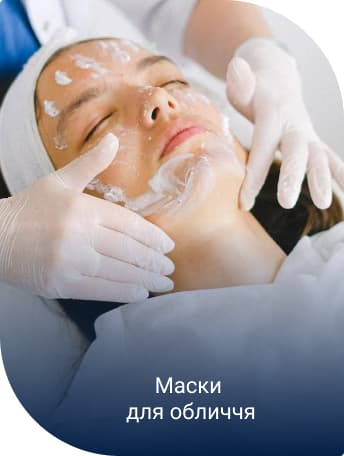
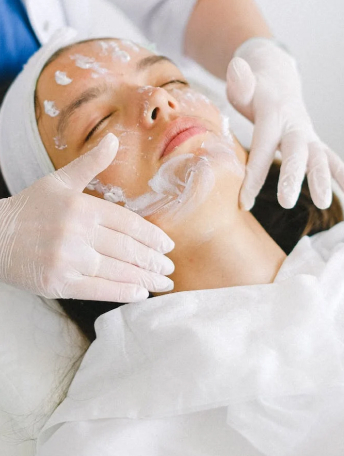
new

diff --git a/index.html b/index.html
@@ -97,27 +97,69 @@
       </section>
       <section class="people-choise-section">
         <div class="container">
+          <svg
+            class="people-choise-section__background"
+            xmlns="http://www.w3.org/2000/svg"
+            width="1440"
+            height="1507"
+            viewBox="0 0 1440 1507"
+            fill="none"
+          >
+            <path
+              fill-rule="evenodd"
+              clip-rule="evenodd"
+              d="M1015.22 1337.67C843.995 1420.41 681.707 1522.18 492.376 1504.43C294.908 1485.92 120.319 1385.32 -15.7281 1241.03C-170.733 1076.62 -313.597 883.153 -306.334 657.304C-298.462 412.497 -193.856 145.53 23.1542 31.9091C227.164 -74.9055 448.972 123.559 678.526 141.655C938.036 162.113 1224.83 -17.697 1429.76 142.796C1655.09 319.273 1777.41 658.366 1683.59 928.798C1594.61 1185.29 1259.68 1219.54 1015.22 1337.67Z"
+              fill="url(#paint0_linear_64_137)"
+              fill-opacity="0.2"
+            />
+            <defs>
+              <linearGradient
+                id="paint0_linear_64_137"
+                x1="851"
+                y1="-23.0002"
+                x2="851"
+                y2="1197.5"
+                gradientUnits="userSpaceOnUse"
+              >
+                <stop offset="0.334676" stop-color="#2B7FFF" />
+                <stop offset="0.634564" stop-color="#2B7FFF" stop-opacity="0" />
+                <stop offset="0.894715" stop-color="#2B7FFF" stop-opacity="0" />
+              </linearGradient>
+            </defs>
+          </svg>
+
           <h2 class="people-choise-section__title section-title">
             Чому люди
             <span class="people-choise-section__title-accent accent"
               >обирають нас</span
             >
           </h2>
-          <ul>
+          <ul class="people-choise-section__list">
             <li>
               <p class="people-choise-section__description">
+                <svg class="people-choise-section__icon" width="48" height="48">
+                  <use href="./images/icons.svg#icon-science"></use>
+                </svg>
+                <br />
                 Всі наші косметологи мають вищу медичну освіту та стаж роботи
                 від 5 років
               </p>
             </li>
             <li>
               <p class="people-choise-section__description">
+                <svg class="people-choise-section__icon" width="48" height="48">
+                  <use href="./images/icons.svg#icon-medicine"></use>
+                </svg>
+                <br />
                 Використовуємо тільки професійне обладнання та косметику,
                 перевірену часом
               </p>
             </li>
             <li>
               <p class="people-choise-section__description">
+                <svg class="people-choise-section__icon" width="48" height="48">
+                  <use href="./images/icons.svg#icon-crown"></use></svg
+                ><br />
                 Наша мета - підкреслити переваги та приховати недоліки, а не
                 переробити
               </p>
@@ -125,16 +167,49 @@
           </ul>
         </div>
       </section>
-      <section class="procedures-section">
+      <section class="procedure-section">
         <div class="container">
-          <h2 class="section-title">
+          <h2 class="procedure-section_title section-title">
             Наші <span class="accent">процедури</span>
           </h2>
-          <ul>
-            <li>Маски для обличчя</li>
-            <li>Ін'єкції для обличчя</li>
-            <li>Очищення обличчя</li>
-          </ul>
+          <div class="procedure-section__slider">
+            <button type="button">prev</button>
+            <div class="procedure-section__container">
+              <ul class="procedure-section__list">
+                <li>
+                  <article class="procedure-section__text">
+                    <img
+                      class="procedure-section__image"
+                      src="./images/procedure_1.jpg"
+                      alt=""
+                    />
+                    <p>Маски для обличчя</p>
+                  </article>
+                </li>
+                <li>
+                  <article class="procedure-section__text">
+                    <img
+                      class="procedure-section__image"
+                      src="./images/procedure_2.jpg"
+                      alt=""
+                    />
+                    <p>Ін'єкції для обличчя</p>
+                  </article>
+                </li>
+                <li>
+                  <article class="procedure-section__text">
+                    <img
+                      class="procedure-section__image"
+                      src="./images/procedure_3.jpg"
+                      alt=""
+                    />
+                    <p>Очищення обличчя</p>
+                  </article>
+                </li>
+              </ul>
+            </div>
+            <button type="button">next</button>
+          </div>
         </div>
       </section>
       <section class="contacts-section">

diff --git a/css/main.css b/css/main.css
@@ -163,21 +163,61 @@ ul {
 }
 
 /* People chose */
-.people-choise-section {
-  background-image: url(../images/background.svg);
-  background-repeat: no-repeat;
-  background-size: cover;
-  background-position: top;
+.people-choise-section__list {
+  display: flex;
+  gap: 56px;
+  padding-bottom: 96px;
+  margin-left: 190px;
+  margin-right: 190px;
 }
 .people-choise-section__description {
   color: #000;
   text-align: center;
   font-size: 18px;
   font-weight: 400;
-  line-height: 1, 3;
+  line-height: 1.3;
+  border-radius: 32px;
+  background: #fff;
+  padding: 24px 32px;
+  box-shadow: 0px 4px 4px 0px rgba(168, 198, 245, 0.38);
 }
 .people-choise-section__title {
   padding-top: 176px;
+}
+.people-choise-section__icon {
+  fill: var(--color-primary-midle);
+}
+.people-choise-section__background {
+  position: absolute;
+  z-index: -1;
+}
+
+.procedure-section__slider {
+  display: flex;
+  flex-direction: row;
+  justify-content: space-around;
+}
+.procedure-section__container {
+  display: flex;
+}
+.procedure-section__list {
+  display: flex;
+  position: relative;
+  gap: 16px;
+}
+.procedure-section__text {
+  display: block;
+  position: relative;
+  width: 344px;
+  height: 456px;
+  color: #fff;
+  border-radius: 4px 120px;
+  background: linear-gradient(180deg, rgba(1, 28, 68, 0) 48.53%, rgba(1, 28, 68, 0.73) 84.61%, #011c44 101.39%);
+}
+.procedure-section__image {
+  position: absolute;
+  border-radius: 4px 120px;
+  z-index: -2;
 }
 
 /* Reincarnation */

diff --git a/scss/layouts/_people-choise.scss b/scss/layouts/_people-choise.scss
@@ -1,18 +1,31 @@
 /* People chose */
 .people-choise-section {
-  background-image: url(../images/background.svg);
-  background-repeat: no-repeat;
-  background-size: cover;
-  background-position: top;
-
+  &__list {
+    display: flex;
+    gap: 56px;
+    padding-bottom: 96px;
+    margin-left: 190px;
+    margin-right: 190px;
+  }
   &__description {
     color: #000;
     text-align: center;
     font-size: 18px;
     font-weight: 400;
-    line-height: 1, 3;
+    line-height: 1.3;
+    border-radius: 32px;
+    background: #fff;
+    padding: 24px 32px;
+    box-shadow: 0px 4px 4px 0px rgba(168, 198, 245, 0.38);
   }
   &__title {
     padding-top: 176px;
+  }
+  &__icon {
+    fill: var(--color-primary-midle);
+  }
+  &__background {
+    position: absolute;
+    z-index: -1;
   }
 }

diff --git a/scss/layouts/_procedure-section.scss b/scss/layouts/_procedure-section.scss
@@ -1,0 +1,34 @@
+.procedure-section {
+  &__slider {
+    display: flex;
+    flex-direction: row;
+    justify-content: space-around;
+  }
+  &__container {
+    display: flex;
+  }
+  &__list {
+    display: flex;
+    position: relative;
+    gap: 16px;
+  }
+  &__text {
+    display: block;
+    position: relative;
+    width: 344px;
+    height: 456px;
+    color: #fff;
+    border-radius: 4px 120px;
+    background: linear-gradient(
+      180deg,
+      rgba(1, 28, 68, 0) 48.53%,
+      rgba(1, 28, 68, 0.73) 84.61%,
+      #011c44 101.39%
+    );
+  }
+  &__image {
+    position: absolute;
+    border-radius: 4px 120px;
+    z-index: -2;
+  }
+}

diff --git a/scss/main.scss b/scss/main.scss
@@ -8,6 +8,7 @@
 @import "./layouts/header";
 @import "./layouts/hero-section";
 @import "./layouts/people-choise";
+@import "./layouts/procedure-section";
 
 /* Reincarnation */
 .reincarnation_layout {
